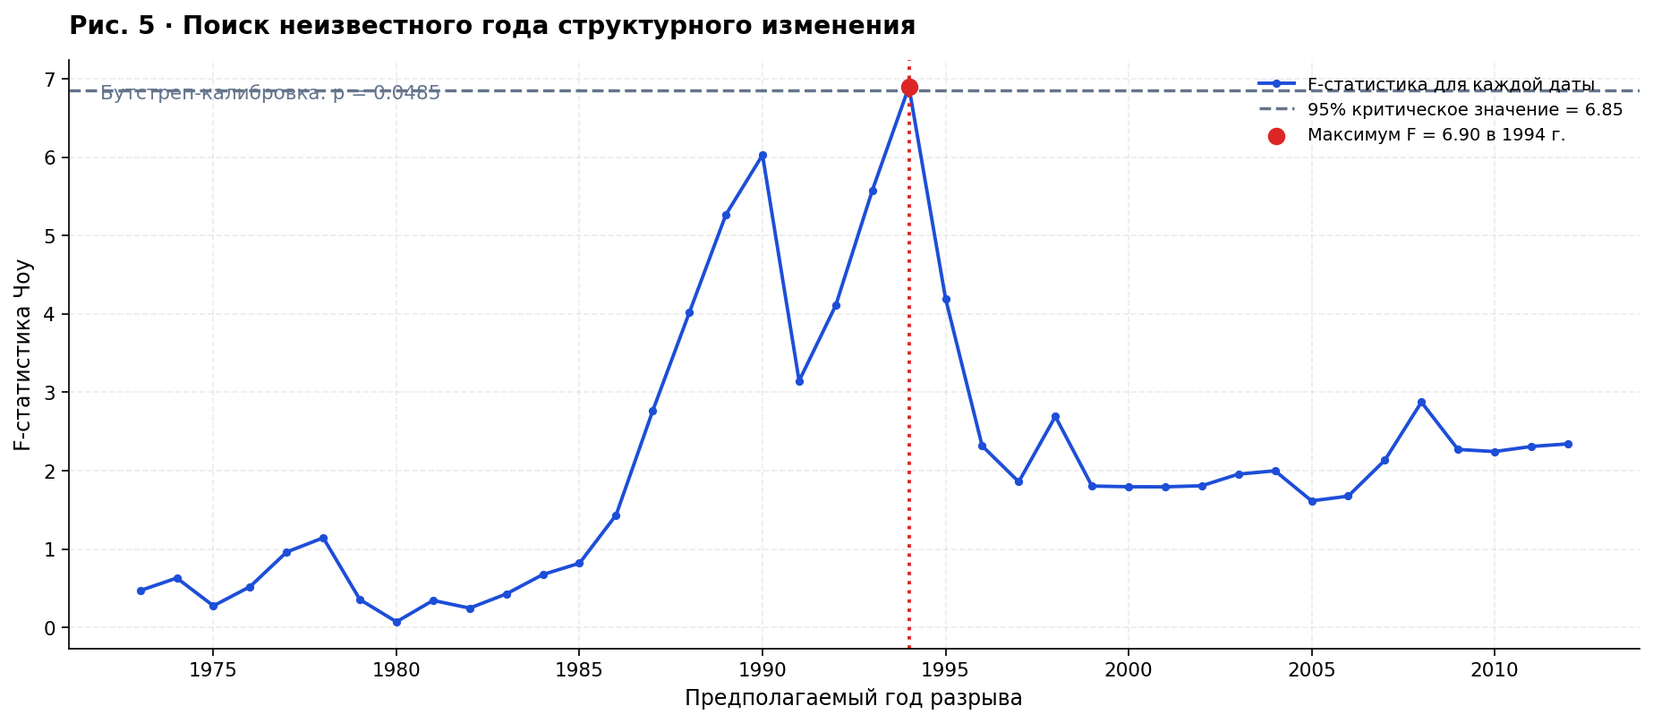
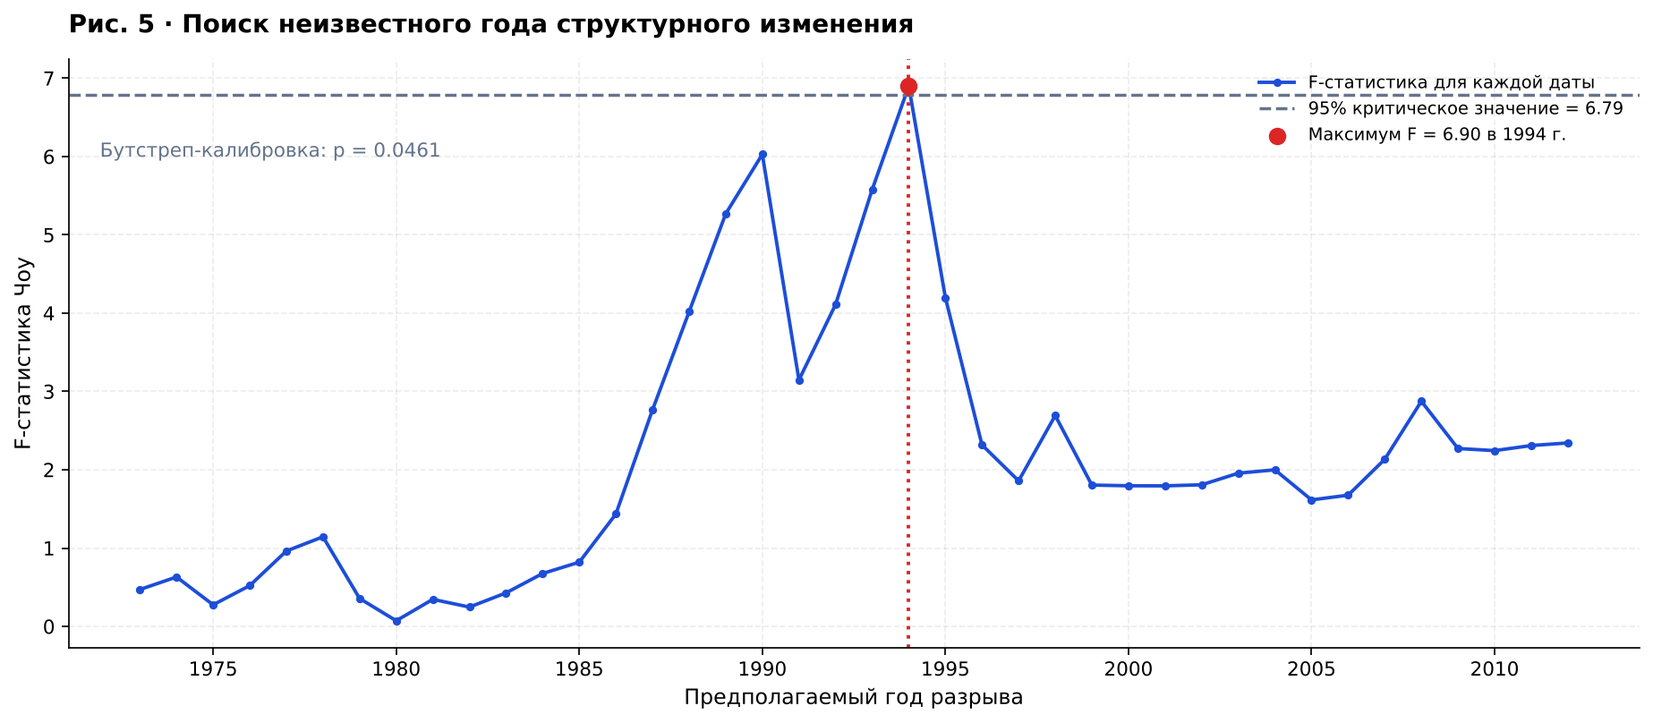
supF: случайное разбиение на блоки в Wild-Block Bootstrap и анализ чувствительности
- src/statistics.py: в supf_wild_block добавлена схема block_scheme='random'
  (используется по умолчанию): разбиение на блоки генерируется заново в каждой
  псевдовыборке, длины блоков геометрические со средним block_years
  (по аналогии со стационарным бутстрепом Politis & Romano, 1994).
  Прежняя схема сохранена как block_scheme='fixed' (с параметром offset).
  По умолчанию n_boot = 19999; в результат добавлены настройки и
  полуширина 95% интервала Монте-Карло; расчёт sup F* выполняется порциями.
- supf_sensitivity.py: таблица чувствительности p к длине блока (2–6 лет),
  положению границ фиксированных блоков и весам.
- run.py: n_boot по умолчанию 19999; в отчёт добавлены схема блоков и
  интервал Монте-Карло.
- tests: ожидаемое p = 0.04605 для новой схемы; отдельный тест проверяет,
  что прежняя схема воспроизводит p = 0.0485.
- README, results, рис. 5 обновлены (подпись p сдвинута ниже линии
  критического значения).

Результат: 1994 г., sup F = 6.90, критическое значение 6.79,
p = 0.046 (19999 повторов); при средней длине блока 2–6 лет p = 0.038–0.063,
без весов p = 0.09–0.12. Ряды RFM и MLE не изменились.

Claude-Session: https://claude.ai/code/session_01WS7qKj4JUhDF4YYDdtizKK

diff --git a/supf_sensitivity.py b/supf_sensitivity.py
@@ -1,0 +1,89 @@
+#!/usr/bin/env python3
+"""Чувствительность бутстреп-оценки p для supF-теста (ряд RFM).
+
+Перебираются:
+  * схема блоков: 'random' (основная, случайное разбиение на блоки
+    с геометрическими длинами) и 'fixed' (фиксированные блоки со всеми
+    возможными сдвигами границ 0..L-1 лет);
+  * средняя или фиксированная длина блока L = 2..6 лет;
+  * взвешенная (веса 1/max(se, 0.05)^2) и невзвешенная схема.
+
+Требуется results/rfm_годовые_оценки.csv (создаётся командой python run.py).
+Результат: results/supf_чувствительность.csv и results/supf_чувствительность.md.
+"""
+from __future__ import annotations
+
+import argparse
+
+import pandas as pd
+
+from src.config import RESULTS
+from src.statistics import supf_wild_block
+
+BLOCKS = (2, 3, 4, 5, 6)
+
+
+def main():
+    parser = argparse.ArgumentParser(description=__doc__.splitlines()[0])
+    parser.add_argument('--n-boot', type=int, default=19999,
+                        help='Число бутстреп-повторов (по умолчанию 19999)')
+    args = parser.parse_args()
+
+    path = RESULTS / 'rfm_годовые_оценки.csv'
+    if not path.is_file():
+        raise SystemExit(f'Нет {path}. Сначала выполните: python run.py')
+    rfm = pd.read_csv(path)
+    se = (rfm.ci_high - rfm.ci_low) / (2 * 1.96)
+
+    rows = []
+    for weighted in (True, False):
+        for block in BLOCKS:
+            r = supf_wild_block(rfm.year, rfm.b, se, n_boot=args.n_boot,
+                                block_years=block, weighted=weighted,
+                                block_scheme='random')
+            rows.append({'scheme': 'random', 'weighted': weighted, 'block_years': block,
+                         'offset': '', 'break_year': r['break_year'],
+                         'sup_f': r['max_f'], 'p': r['p'], 'critical': r['critical']})
+            for offset in range(block):
+                r = supf_wild_block(rfm.year, rfm.b, se, n_boot=args.n_boot,
+                                    block_years=block, weighted=weighted,
+                                    block_scheme='fixed', offset=offset)
+                rows.append({'scheme': 'fixed', 'weighted': weighted, 'block_years': block,
+                             'offset': offset, 'break_year': r['break_year'],
+                             'sup_f': r['max_f'], 'p': r['p'], 'critical': r['critical']})
+    table = pd.DataFrame(rows)
+    RESULTS.mkdir(parents=True, exist_ok=True)
+    table.to_csv(RESULTS / 'supf_чувствительность.csv', index=False, float_format='%.6g')
+
+    lines = [
+        '# Чувствительность supF-теста (ряд RFM)',
+        '',
+        f'Число бутстреп-повторов: {args.n_boot}. Год максимума F во всех вариантах: '
+        f'{", ".join(map(str, sorted(table.break_year.unique())))}.',
+        '',
+        '| L, лет | random, с весами | random, без весов | fixed, с весами (мин–макс по сдвигам) | fixed, без весов (мин–макс по сдвигам) |',
+        '|---:|---:|---:|---:|---:|',
+    ]
+    for block in BLOCKS:
+        cells = []
+        for scheme in ('random', 'fixed'):
+            for weighted in (True, False):
+                sub = table[(table.scheme == scheme) & (table.weighted == weighted)
+                            & (table.block_years == block)]
+                if scheme == 'random':
+                    cells.append(f'{sub.p.iloc[0]:.3f}')
+                else:
+                    cells.append(f'{sub.p.min():.3f}–{sub.p.max():.3f}')
+        lines.append(f'| {block} | ' + ' | '.join(cells) + ' |')
+    lines += [
+        '',
+        'random — основная схема статьи: разбиение на блоки заново в каждой псевдовыборке,',
+        'длины блоков геометрические со средним L. fixed — фиксированные блоки длины L;',
+        'для неё показан разброс p по всем сдвигам границ блоков (0..L-1 лет).',
+    ]
+    (RESULTS / 'supf_чувствительность.md').write_text('\n'.join(lines) + '\n', encoding='utf-8')
+    print('\n'.join(lines))
+
+
+if __name__ == '__main__':
+    main()

diff --git a/src/statistics.py b/src/statistics.py
@@ -30,14 +30,32 @@ def chow_fixed(years, values, break_year: int = 1994) -> dict:
             'fit_two': fitted1, 'years': t}
 
 
-def supf_wild_block(years, values, se=None, *, n_boot: int = 1999,
+def supf_wild_block(years, values, se=None, *, n_boot: int = 19999,
                     block_years: int = 3, seed: int = 20261025,
-                    trimming: float = 0.15, weighted: bool = True) -> dict:
+                    trimming: float = 0.15, weighted: bool = True,
+                    block_scheme: str = 'random', offset: int = 0) -> dict:
     """Значимость неизвестной даты: supF и знаковый бутстреп блоками лет.
 
     В отличие от обычного теста Чоу, бутстреп учитывает перебор кандидатов
     и использует то же правило максимизации для каждой псевдовыборки.
+
+    Остатки нулевой модели умножаются на случайный знак ±1, общий для
+    всех лет одного блока.
+
+    block_scheme='random' (основная схема статьи): разбиение на блоки
+        генерируется заново в каждой псевдовыборке; каждый год с
+        вероятностью 1/block_years начинает новый блок, поэтому длины
+        блоков имеют геометрическое распределение со средним block_years
+        (по аналогии со стационарным бутстрепом Politis & Romano, 1994).
+        Результат не зависит от положения границ блоков.
+    block_scheme='fixed': фиксированные блоки длины block_years, начиная
+        с первого года ряда со сдвигом offset лет (прежняя схема; оставлена
+        для воспроизведения ранних результатов и анализа чувствительности).
     """
+    if block_scheme not in ('random', 'fixed'):
+        raise ValueError("block_scheme должен быть 'random' или 'fixed'")
+    if block_years < 1:
+        raise ValueError('block_years должен быть не меньше 1')
     years = np.asarray(years, dtype=float)
     y = np.asarray(values, dtype=float)
     if se is None:
@@ -85,11 +103,23 @@ def supf_wild_block(years, values, se=None, *, n_boot: int = 1999,
     obs, rss0, rss1 = fvalues(weighted_y)
     f_curve = obs[0]
     best = int(np.argmax(f_curve))
-    nblock = ((years-years.min())//block_years).astype(int)
     rng = np.random.default_rng(seed)
-    signs = rng.choice([-1.0,1.0], size=(n_boot,int(nblock.max())+1))
-    sims = fit0[None,:]+residual[None,:]*signs[:,nblock]
-    maxima = np.max(fvalues(sims)[0],axis=1)
+    if block_scheme == 'fixed':
+        nblock = ((years-years.min()+offset)//block_years).astype(int)
+        signs = rng.choice([-1.0,1.0], size=(n_boot,int(nblock.max())+1))
+        multipliers = signs[:, nblock]
+    else:
+        multipliers = np.empty((n_boot, n))
+        for k in range(n_boot):
+            starts = rng.random(n) < 1.0/block_years
+            starts[0] = True
+            block_id = np.cumsum(starts) - 1
+            block_sign = rng.choice([-1.0,1.0], size=int(block_id[-1])+1)
+            multipliers[k] = block_sign[block_id]
+    sims = fit0[None,:]+residual[None,:]*multipliers
+    # Расчёт порциями, чтобы не держать в памяти массив n_boot × даты × n.
+    maxima = np.concatenate([np.max(fvalues(sims[i:i+2000])[0], axis=1)
+                             for i in range(0, n_boot, 2000)])
     max_f = float(f_curve[best])
     p = (1+int(np.count_nonzero(maxima>=max_f)))/(1+n_boot)
     critical = float(np.quantile(maxima,0.95))
@@ -99,7 +129,9 @@ def supf_wild_block(years, values, se=None, *, n_boot: int = 1999,
             'breaks':breaks.astype(int), 'f_curve':f_curve,
             'delta_bic':float(n*np.log(rss0[0]/rss1[0,best])-2*np.log(n)),
             'coefs':c1, 'mean_year':float(years.mean()),
-            'n_boot':int(n_boot)}
+            'n_boot':int(n_boot), 'block_years':int(block_years),
+            'block_scheme':block_scheme, 'weighted':bool(weighted),
+            'mc_halfwidth':float(1.96*np.sqrt(p*(1-p)/n_boot))}
 
 
 def holm_adjust(p_values):

diff --git a/run.py b/run.py
@@ -49,7 +49,8 @@ def _write_report(rfm, mle, supf, chow):
         '',
         f'- Год максимума: **{supf["break_year"]}**.',
         f'- F-статистика: **{supf["max_f"]:.4f}**.',
-        f'- Бутстреп p: **{supf["p"]:.4f}** ({supf["n_boot"]} реплик).',
+        f'- Бутстреп p: **{supf["p"]:.4f}** ± {supf["mc_halfwidth"]:.4f} (95% интервал Монте-Карло; {supf["n_boot"]} реплик).',
+        f'- Схема блоков: случайное разбиение, средняя длина блока {supf["block_years"]} года; веса 1/max(se, 0.05)².',
         f'- Критическое значение (95%): **{supf["critical"]:.4f}**.',
         f'- Разность BIC (нулевая минус альтернативная модель): **{supf["delta_bic"]:+.4f}**.',
         '',
@@ -71,12 +72,17 @@ def _write_report(rfm, mle, supf, chow):
         '',
         'Доверительные интервалы RFM использованы из сохранённых результатов исходного эксперимента,',
         'а не получены повторным полным бутстрепом при этом запуске.',
+        '',
+        'Чувствительность p к длине блока, положению границ блоков и весам: python supf_sensitivity.py',
+        '(результат в results/supf_чувствительность.md).',
     ]
     (RESULTS/'ИТОГИ_АНАЛИЗА.md').write_text('\n'.join(lines)+'\n',encoding='utf-8')
     with (RESULTS/'статистические_тесты.json').open('w',encoding='utf-8') as fh:
         serial={
             'rfm_supf':{key:float(supf[key]) if isinstance(supf[key],(int,float,np.floating)) else supf[key]
-                        for key in ('max_f','p','critical','delta_bic')},
+                        for key in ('max_f','p','critical','delta_bic','mc_halfwidth')},
+            'rfm_supf_settings':{'block_scheme':supf['block_scheme'],'block_years':supf['block_years'],
+                                 'weighted':supf['weighted']},
             'rfm_break_year':int(supf['break_year']),
             'n_boot':int(supf['n_boot']),
             'mle_chow':{str(key):{k:float(v) for k,v in val.items()
@@ -89,8 +95,8 @@ def _write_report(rfm, mle, supf, chow):
 def main():
     parser=argparse.ArgumentParser(description='Воссоздать все 11 рисунков статьи')
     parser.add_argument('--quick',action='store_true',help='Использовать ранее посчитанные RFM/MLE-таблицы')
-    parser.add_argument('--n-boot',type=int,default=1999,
-                        help='Число бутстреп-повторов для supF (по умолчанию 1999)')
+    parser.add_argument('--n-boot',type=int,default=19999,
+                        help='Число бутстреп-повторов для supF (по умолчанию 19999)')
     args=parser.parse_args()
     if args.n_boot < 99:
         parser.error('Для supF необходимо не менее 99 бутстреп-повторов')

diff --git a/tests/test_methods.py b/tests/test_methods.py
@@ -47,9 +47,18 @@ class TestPaperResults(unittest.TestCase):
         # из исходного архива содержит округлённые значения b.
         original=pd.read_csv(ROOT/'results/rfm_годовые_оценки.csv')
         se=(original.ci_high-original.ci_low)/(2*1.96)
-        result=supf_wild_block(original.year,original.b,se,n_boot=1999)
+        result=supf_wild_block(original.year,original.b,se)
         self.assertEqual(result['break_year'],1994)
         self.assertAlmostEqual(result['max_f'],6.8992,places=3)
+        self.assertAlmostEqual(result['p'],0.04605,places=5)
+        self.assertAlmostEqual(result['critical'],6.789,places=2)
+
+    def test_supf_fixed_blocks_legacy(self):
+        """Прежняя схема с фиксированными блоками воспроизводит p = 0.0485."""
+        original=pd.read_csv(ROOT/'results/rfm_годовые_оценки.csv')
+        se=(original.ci_high-original.ci_low)/(2*1.96)
+        result=supf_wild_block(original.year,original.b,se,n_boot=1999,
+                               block_scheme='fixed')
         self.assertAlmostEqual(result['p'],0.0485,places=4)
 
     def test_holm_multiple_comparisons(self):

diff --git a/src/plots.py b/src/plots.py
@@ -94,7 +94,7 @@ def fig05_supf(supf):
     ax.scatter([supf['break_year']],[supf['max_f']],color=RED,s=65,zorder=8,
                label=f'Максимум F = {supf["max_f"]:.2f} в {supf["break_year"]} г.')
     ax.set(xlabel='Предполагаемый год разрыва',ylabel='F-статистика Чоу')
-    ax.text(.02,.96,f'Бутстреп-калибровка: p = {supf["p"]:.4f}',
+    ax.text(.02,.86,f'Бутстреп-калибровка: p = {supf["p"]:.4f}',
             transform=ax.transAxes,va='top',fontsize=10,color=GRAY)
     ax.legend(loc='upper right',fontsize=9)
     _finish(fig,'05_тест_supf.png',

diff --git a/README.md b/README.md
@@ -27,10 +27,17 @@ python run.py
 python run.py --quick
 ```
 
-Для увеличения числа бутстреп-повторов при проверке RFM:
+По умолчанию supF-тест использует 19999 бутстреп-повторов; число можно изменить:
 
 ```bash
-python run.py --n-boot 19999
+python run.py --n-boot 1999
+```
+
+Чувствительность p для supF к длине блока, положению границ блоков и весам
+(после `python run.py`, результат в `results/supf_чувствительность.md`):
+
+```bash
+python supf_sensitivity.py
 ```
 
 ## Состав репозитория
@@ -40,6 +47,7 @@ Gutenberg_Richter_GitHub/
 ├── README.md                  # Как работать с проектом
 ├── РИСУНКИ.md                # Пояснения ко всем 11 рисункам
 ├── run.py                     # Один запуск: расчёты, тесты и графики
+├── supf_sensitivity.py        # Чувствительность supF к блокам и весам
 ├── loader.py                  # Загрузчик ISC, сохранён и очищен от секретов
 ├── postgres.py                # Необязательное подключение к базе через окружение
 ├── requirements.txt           # Библиотеки Python
@@ -64,13 +72,15 @@ Gutenberg_Richter_GitHub/
 |---|---|---:|
 | RFM + supF | Наиболее вероятная дата | **1994** |
 | RFM + supF | Максимальное F | **6,90** |
-| RFM + supF | p (Wild-Block Bootstrap, 1999 повторов) | **0,0485** |
+| RFM + supF | p (Wild-Block Bootstrap, случайные блоки, L = 3, 19999 повторов) | **0,046** |
+| RFM + supF | p при средней длине блока 2–6 лет | **0,038–0,063** |
+| RFM + supF | p без весов, L = 2–6 | **0,09–0,12** |
 | MLE при M0 = 5,0 | F критерия Чоу | **9,6878** |
 | MLE при M0 = 5,0 | Номинальное p | **0,000259** |
 | MLE при M0 = 5,5 | Номинальное p | **0,00434** |
 | MLE при M0 = 6,0 | Номинальное p | **0,0190** |
 
-Максимум supF для RFM приходится на 1994 год, но его значимость **пограничная**. Дата для MLE была выбрана на этапе RFM по связанным данным, поэтому проверка Чоу **не является полностью независимой**. Региональный b-positive не дал сопоставимого устойчивого подтверждения после учёта множественных сравнений. Статистический разрыв не следует автоматически считать физическим изменением глобального сейсмического режима.
+Максимум supF для RFM приходится на 1994 год, но его значимость **пограничная**. Значимость оценивается знаковым бутстрепом остатков блоками лет; разбиение на блоки генерируется заново в каждой псевдовыборке (средняя длина 3 года), поэтому результат не зависит от положения границ блоков. Прежняя схема с фиксированными блоками доступна как `block_scheme='fixed'` и даёт p = 0,0485. Дата для MLE была выбрана на этапе RFM по связанным данным, поэтому проверка Чоу **не является полностью независимой**. Региональный b-positive не дал сопоставимого устойчивого подтверждения после учёта множественных сравнений. Статистический разрыв не следует автоматически считать физическим изменением глобального сейсмического режима.
 
 ## Региональная выборка для анализа b-positive
 

diff --git a/results/ИТОГИ_АНАЛИЗА.md b/results/ИТОГИ_АНАЛИЗА.md
@@ -7,8 +7,9 @@
 
 - Год максимума: **1994**.
 - F-статистика: **6.8993**.
-- Бутстреп p: **0.0485** (1999 реплик).
-- Критическое значение (95%): **6.8478**.
+- Бутстреп p: **0.0461** ± 0.0029 (95% интервал Монте-Карло; 19999 реплик).
+- Схема блоков: случайное разбиение, средняя длина блока 3 года; веса 1/max(se, 0.05)².
+- Критическое значение (95%): **6.7888**.
 - Разность BIC (нулевая минус альтернативная модель): **+5.1032**.
 
 ## MLE: критерий Чоу для фиксированного 1994 года
@@ -24,3 +25,8 @@
 В статье региональные ряды b-positive не подтверждают сопоставимый устойчивый разрыв после поправки Холма.
 Это не является доказательством физической перестройки глобального сейсмического режима.
 
+Доверительные интервалы RFM использованы из сохранённых результатов исходного эксперимента,
+а не получены повторным полным бутстрепом при этом запуске.
+
+Чувствительность p к длине блока, положению границ блоков и весам: python supf_sensitivity.py
+(результат в results/supf_чувствительность.md).

diff --git a/results/supf_чувствительность.md b/results/supf_чувствительность.md
@@ -1,0 +1,15 @@
+# Чувствительность supF-теста (ряд RFM)
+
+Число бутстреп-повторов: 19999. Год максимума F во всех вариантах: 1994.
+
+| L, лет | random, с весами | random, без весов | fixed, с весами (мин–макс по сдвигам) | fixed, без весов (мин–макс по сдвигам) |
+|---:|---:|---:|---:|---:|
+| 2 | 0.038 | 0.093 | 0.015–0.059 | 0.057–0.128 |
+| 3 | 0.046 | 0.113 | 0.009–0.077 | 0.066–0.126 |
+| 4 | 0.051 | 0.118 | 0.021–0.047 | 0.054–0.204 |
+| 5 | 0.057 | 0.124 | 0.003–0.140 | 0.002–0.320 |
+| 6 | 0.063 | 0.119 | 0.012–0.074 | 0.022–0.188 |
+
+random — основная схема статьи: разбиение на блоки заново в каждой псевдовыборке,
+длины блоков геометрические со средним L. fixed — фиксированные блоки длины L;
+для неё показан разброс p по всем сдвигам границ блоков (0..L-1 лет).
